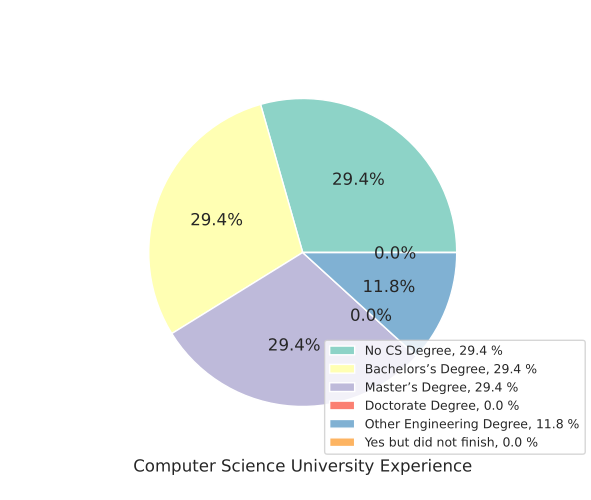
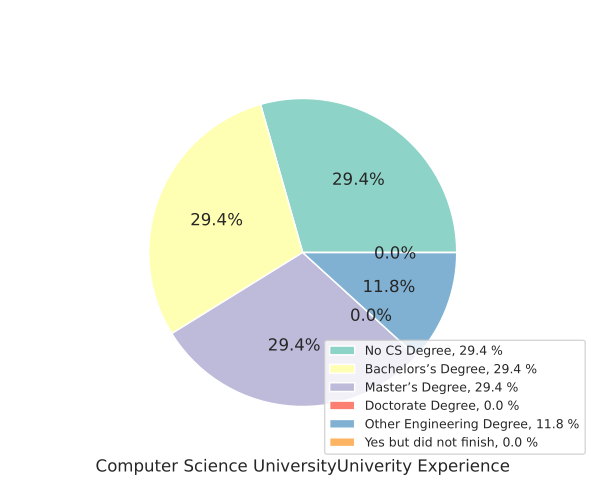
plot: Updated plot

Changed region(s): [[0.1523, 0.9, 0.8528, 0.96]]

diff --git a/thesis/plots/uni_exp/plot.py b/thesis/plots/uni_exp/plot.py
@@ -12,7 +12,7 @@ plt.tight_layout()
 fig.set_size_inches(5.90666, 5)
 sns.set(style="ticks")
 
-plt.xlabel("Computer Science University Experience")
+plt.xlabel("Computer Science UniversityUniverity Experience")
 
 data = np.array([29.41, 29.41, 29.41, 0, 11.76, 0])
 explode = (0.2, 0, 0, 0, 0, 0)
